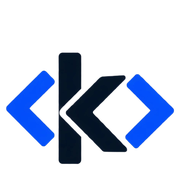
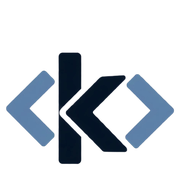
Steel blue in place of the bright blue
The logo, the tab and home-screen icons, the share picture and every accent
on the site move from the bright blue to a calm steel blue; the greys and
glows follow it, and the six games' own colours are toned down to match.

Changed region(s): [[0.0278, 0.3889, 0.3056, 0.8333], [0.6944, 0.3889, 0.9722, 0.8333]]

diff --git a/styles.css b/styles.css
@@ -4,16 +4,16 @@
   --navy: #011122;
   --navy-2: #071d38;
   --navy-3: #0c2a50;
-  --blue: #004efc;
-  --blue-2: #2f6dff;
-  --blue-3: #8db0ff;
-  --blue-soft: #e8efff;
+  --blue: #46678c;
+  --blue-2: #5c80a8;
+  --blue-3: #a3bad6;
+  --blue-soft: #eaf0f6;
   --page: #ffffff;
-  --page-2: #f4f7fd;
-  --line: #e2e8f3;
+  --page-2: #f4f6f9;
+  --line: #e2e7ee;
   --ink: #011122;
-  --ink-soft: #4a5872;
-  --on-dark: #c9d6ee;
+  --ink-soft: #4b5869;
+  --on-dark: #c9d3e0;
   --radius: 28px;
   --shadow: 0 18px 48px rgba(1, 17, 34, .12);
   --ease: cubic-bezier(.2, .7, .2, 1);
@@ -117,15 +117,15 @@ html[data-lang="tr"] .top.over .lang [data-set="tr"], html[data-lang="en"] .top.
 .badge span span { color: var(--on-dark); }
 .hero h1 { font-size: clamp(42px, 7vw, 92px); line-height: 1.02; letter-spacing: -2.5px; margin: 26px 0 22px; max-width: 980px; }
 .hero h1 em {
-  font-style: normal; color: #7ea6ff;
-  background: linear-gradient(90deg, #5b8cff 0%, #a8c6ff 100%); -webkit-background-clip: text; background-clip: text; -webkit-text-fill-color: transparent;
+  font-style: normal; color: #a3bad6;
+  background: linear-gradient(90deg, #8eaacb 0%, #cddbea 100%); -webkit-background-clip: text; background-clip: text; -webkit-text-fill-color: transparent;
 }
 .hero .lead { font-size: clamp(17.5px, 1.7vw, 21px); max-width: 580px; margin: 0 0 34px; color: var(--on-dark); }
 .cta { display: flex; flex-wrap: wrap; gap: 14px; align-items: center; }
 .button {
   display: inline-flex; align-items: center; gap: 10px; text-decoration: none; font-weight: 700; font-size: 16.5px;
   padding: 15px 26px; border-radius: 14px; background: var(--blue); color: #fff;
-  box-shadow: 0 12px 30px rgba(0, 78, 252, .4); transition: transform .15s, background .15s;
+  box-shadow: 0 12px 30px rgba(70, 103, 140, .35); transition: transform .15s, background .15s;
 }
 .button:hover { transform: translateY(-2px); background: var(--blue-2); }
 .button .arrow { transition: transform .2s; }
@@ -153,7 +153,7 @@ html[data-lang="tr"] .top.over .lang [data-set="tr"], html[data-lang="en"] .top.
 .marquee {
   position: relative; z-index: 3; margin: -30px -40px 0; padding: 20px 0; overflow: hidden;
   background: var(--blue); color: #fff; transform: rotate(-2deg);
-  box-shadow: 0 20px 44px rgba(0, 78, 252, .3);
+  box-shadow: 0 20px 44px rgba(70, 103, 140, .3);
 }
 .track { display: flex; width: max-content; animation: band 30s linear infinite; }
 .track span { display: inline-flex; align-items: center; font: 800 clamp(22px, 2.8vw, 34px)/1 "Poppins", sans-serif; letter-spacing: .5px; white-space: nowrap; }
@@ -167,7 +167,7 @@ html[data-lang="tr"] .top.over .lang [data-set="tr"], html[data-lang="en"] .top.
 .show { display: grid; grid-template-columns: 1.3fr 1fr; gap: 72px; margin-top: 56px; }
 .stage {
   position: sticky; top: 110px; height: min(64vh, 580px); border-radius: var(--radius); overflow: hidden; background: var(--navy);
-  --accent: #2fbf71;
+  --accent: #6f9e7f;
   box-shadow: 0 40px 90px -34px var(--accent); transition: box-shadow .6s;
 }
 .stage img { position: absolute; inset: 0; width: 100%; height: 100%; object-fit: cover; opacity: 0; transform: scale(1.08); transition: opacity .6s ease, transform 1.4s var(--ease); }
@@ -190,7 +190,7 @@ html[data-lang="tr"] .top.over .lang [data-set="tr"], html[data-lang="en"] .top.
 .animals { position: relative; background: var(--page-2); padding: 120px 0 110px; overflow: hidden; }
 .animals::before {
   content: ""; position: absolute; inset: 0; pointer-events: none;
-  background: radial-gradient(circle at 12% 18%, rgba(0, 78, 252, .1), transparent 34%), radial-gradient(circle at 90% 80%, rgba(0, 78, 252, .1), transparent 36%);
+  background: radial-gradient(circle at 12% 18%, rgba(92, 128, 168, .12), transparent 34%), radial-gradient(circle at 90% 80%, rgba(92, 128, 168, .12), transparent 36%);
 }
 .animals .wrap { position: relative; }
 .animals-head { text-align: center; max-width: 680px; margin: 0 auto; }
@@ -224,7 +224,7 @@ html[data-lang="tr"] .top.over .lang [data-set="tr"], html[data-lang="en"] .top.
   background-image: radial-gradient(rgba(255, 255, 255, .08) 1px, transparent 1.2px); background-size: 26px 26px;
   -webkit-mask-image: linear-gradient(180deg, #000, transparent 85%); mask-image: linear-gradient(180deg, #000, transparent 85%);
 }
-.how::after { content: ""; position: absolute; inset: 0; pointer-events: none; background: radial-gradient(circle at 85% 0%, rgba(0, 78, 252, .45), transparent 50%); }
+.how::after { content: ""; position: absolute; inset: 0; pointer-events: none; background: radial-gradient(circle at 85% 0%, rgba(92, 128, 168, .3), transparent 50%); }
 .how .wrap { position: relative; z-index: 1; }
 .how .kicker { color: var(--blue-3); }
 .how-head h2 { font-size: clamp(38px, 5.4vw, 68px); letter-spacing: -2px; margin-bottom: 14px; }
@@ -233,7 +233,7 @@ html[data-lang="tr"] .top.over .lang [data-set="tr"], html[data-lang="en"] .top.
 .js .steps[data-reveal] { opacity: 1; transform: none; }
 .steps::before {
   content: ""; position: absolute; left: 36px; right: 0; top: 35px; height: 2px;
-  background: linear-gradient(90deg, var(--blue-2), rgba(47, 109, 255, .12));
+  background: linear-gradient(90deg, var(--blue-2), rgba(92, 128, 168, .14));
   transform-origin: left; transform: scaleX(0); transition: transform 1.6s var(--ease) .2s;
 }
 .steps.in::before, html:not(.js) .steps::before { transform: none; }
@@ -245,7 +245,7 @@ html[data-lang="tr"] .top.over .lang [data-set="tr"], html[data-lang="en"] .top.
 .js .steps.in li:nth-child(4) { transition-delay: .54s; }
 .dot {
   position: relative; z-index: 1; display: grid; place-items: center; width: 72px; height: 72px; border-radius: 22px;
-  background: var(--blue); box-shadow: 0 0 0 8px var(--navy), 0 16px 36px rgba(0, 78, 252, .5);
+  background: var(--blue); box-shadow: 0 0 0 8px var(--navy), 0 16px 36px rgba(92, 128, 168, .4);
 }
 .dot::before { content: ""; width: 36px; height: 36px; background: #fff; -webkit-mask: var(--icon) center / contain no-repeat; mask: var(--icon) center / contain no-repeat; }
 .step-num { display: block; margin: 28px 0 6px; font: 700 14px "Poppins", sans-serif; color: var(--blue-3); letter-spacing: 1.5px; }
@@ -274,7 +274,7 @@ html[data-lang="tr"] .top.over .lang [data-set="tr"], html[data-lang="en"] .top.
 .contact { padding: 0 0 120px; }
 .contact-card {
   position: relative; overflow: hidden; border-radius: 34px; padding: 80px 68px; color: #fff;
-  background: radial-gradient(circle at 82% 18%, rgba(47, 109, 255, .65), transparent 48%), linear-gradient(135deg, var(--navy) 0%, var(--navy-3) 62%, #003ad1 120%);
+  background: radial-gradient(circle at 82% 18%, rgba(92, 128, 168, .45), transparent 48%), linear-gradient(135deg, var(--navy) 0%, var(--navy-3) 62%, #33557a 120%);
 }
 .contact-text { position: relative; z-index: 1; max-width: 600px; }
 .contact .kicker { color: var(--blue-3); }
@@ -290,7 +290,7 @@ html[data-lang="tr"] .top.over .lang [data-set="tr"], html[data-lang="en"] .top.
 @keyframes peek { from { transform: translateY(75%) rotate(-6deg); } to { transform: rotate(-6deg); } }
 
 /* ── Footer ── */
-footer { background: var(--navy); color: #8d9cb8; padding: 36px 0; font-size: 14.5px; }
+footer { background: var(--navy); color: #8f9cae; padding: 36px 0; font-size: 14.5px; }
 footer .wrap { display: flex; flex-wrap: wrap; gap: 14px 28px; align-items: center; }
 footer .foot-logo { height: 34px; width: auto; }
 footer a { color: #fff; text-decoration: none; font-weight: 600; }
@@ -333,6 +333,7 @@ footer .spacer { margin-left: auto; }
   .steps::before { display: none; }
   .privacy .wrap { grid-template-columns: 1fr; gap: 44px; }
   .checks { transform: none; }
+  .contact-text { max-width: 60%; }
 }
 @media (max-width: 680px) {
   body { font-size: 16.5px; }
@@ -362,7 +363,7 @@ footer .spacer { margin-left: auto; }
   .numbers div { padding-top: 24px; }
   /* The steps run down a line on the left. */
   .steps { grid-template-columns: 1fr; row-gap: 40px; margin-top: 56px; }
-  .steps::before { display: block; left: 31px; top: 30px; bottom: 30px; right: auto; width: 2px; height: auto; transform-origin: top; transform: scaleY(0); background: linear-gradient(180deg, var(--blue-2), rgba(47, 109, 255, .12)); }
+  .steps::before { display: block; left: 31px; top: 30px; bottom: 30px; right: auto; width: 2px; height: auto; transform-origin: top; transform: scaleY(0); background: linear-gradient(180deg, var(--blue-2), rgba(92, 128, 168, .14)); }
   .steps.in::before { transform: none; }
   .steps li { padding-left: 88px; }
   .dot { position: absolute; left: 0; top: 0; width: 62px; height: 62px; border-radius: 19px; }
@@ -372,6 +373,7 @@ footer .spacer { margin-left: auto; }
   .checks li { font-size: 16px; padding: 13px 14px; }
   .contact { padding-bottom: 80px; }
   .contact-card { padding: 50px 24px 230px; border-radius: 26px; }
+  .contact-text { max-width: none; }
   .contact h2 { letter-spacing: -2px; }
   .peek { width: 210px; right: 50%; margin-right: -105px; bottom: -20px; }
   footer .spacer { margin-left: 0; }
@@ -394,14 +396,14 @@ footer .spacer { margin-left: auto; }
 }
 .co-hero::after {
   content: ""; position: absolute; inset: 0; pointer-events: none;
-  background: radial-gradient(circle at 76% 46%, rgba(0, 78, 252, .55), transparent 42%), radial-gradient(circle at 6% 100%, rgba(0, 78, 252, .22), transparent 40%);
+  background: radial-gradient(circle at 76% 46%, rgba(92, 128, 168, .38), transparent 42%), radial-gradient(circle at 6% 100%, rgba(92, 128, 168, .16), transparent 40%);
 }
 .co-hero-grid { position: relative; z-index: 1; width: 100%; display: grid; grid-template-columns: 1.05fr 1fr; gap: 56px; align-items: center; }
 .co-hero .kicker { color: var(--blue-3); }
 .co-hero h1 { font-size: clamp(38px, 4.7vw, 68px); line-height: 1.03; letter-spacing: -2.4px; margin-bottom: 24px; }
 .co-hero h1 em {
-  font-style: normal; color: #7ea6ff;
-  background: linear-gradient(90deg, #5b8cff 0%, #a8c6ff 100%); -webkit-background-clip: text; background-clip: text; -webkit-text-fill-color: transparent;
+  font-style: normal; color: #a3bad6;
+  background: linear-gradient(90deg, #8eaacb 0%, #cddbea 100%); -webkit-background-clip: text; background-clip: text; -webkit-text-fill-color: transparent;
 }
 .co-hero .lead { font-size: clamp(17px, 1.5vw, 19.5px); color: var(--on-dark); max-width: 540px; margin: 0 0 34px; }
 .co-hero-text > * { animation: rise 1s var(--ease) both; }
@@ -413,7 +415,7 @@ footer .spacer { margin-left: auto; }
 .device {
   position: relative; z-index: 1; margin: 0 12px; padding: 12px; border-radius: 38px; transform: rotate(-4deg);
   background: linear-gradient(145deg, #22324e, #0a1424);
-  box-shadow: inset 0 0 0 1px rgba(255, 255, 255, .1), 0 50px 100px -30px rgba(0, 0, 0, .75), 0 30px 90px -40px rgba(0, 78, 252, .9);
+  box-shadow: inset 0 0 0 1px rgba(255, 255, 255, .1), 0 50px 100px -30px rgba(0, 0, 0, .75), 0 30px 90px -40px rgba(92, 128, 168, .7);
 }
 .device::after { content: ""; position: absolute; left: 3px; top: 50%; width: 6px; height: 6px; margin-top: -3px; border-radius: 50%; background: #03070f; }
 .screen { position: relative; aspect-ratio: 20 / 9; border-radius: 27px; overflow: hidden; background: #000; }
@@ -484,7 +486,7 @@ footer .spacer { margin-left: auto; }
 .mosaic:hover img:nth-child(even) { transform: translateY(18px); }
 .lab {
   margin-top: 24px; display: flex; align-items: center; justify-content: space-between; gap: 24px;
-  padding: 32px 40px; border: 2px dashed #c3d0e8; border-radius: var(--radius);
+  padding: 32px 40px; border: 2px dashed #c6d1de; border-radius: var(--radius);
 }
 .lab h3 { font-size: 22px; margin-bottom: 4px; }
 .lab p { margin: 0; color: var(--ink-soft); }

diff --git a/motionarea/index.html b/motionarea/index.html
@@ -11,12 +11,12 @@
 <meta property="og:image" content="https://kutcodelabs.com/img/og-image.jpg">
 <meta property="og:url" content="https://kutcodelabs.com/motionarea/">
 <meta name="theme-color" content="#011122">
-<link rel="icon" type="image/png" href="/favicon.png">
-<link rel="apple-touch-icon" href="/apple-touch-icon.png">
+<link rel="icon" type="image/png" href="/favicon.png?v=2">
+<link rel="apple-touch-icon" href="/apple-touch-icon.png?v=2">
 <link rel="preconnect" href="https://fonts.googleapis.com">
 <link rel="preconnect" href="https://fonts.gstatic.com" crossorigin>
 <link href="https://fonts.googleapis.com/css2?family=Inter:wght@400;500;600;700&family=Poppins:wght@600;700;800&display=swap" rel="stylesheet">
-<link rel="stylesheet" href="/styles.css?v=7">
+<link rel="stylesheet" href="/styles.css?v=8">
 <script src="/lang.js?v=3" defer></script>
 <script src="/site.js?v=1" defer></script>
 </head>
@@ -25,8 +25,8 @@
 <header class="top over">
   <div class="wrap">
     <a class="brand" href="/" aria-label="KutCode Labs">
-      <img class="logo-dark" src="/img/logo.png" alt="kutcodelabs" width="394" height="120">
-      <img class="logo-light" src="/img/logo-white.png" alt="" width="394" height="120">
+      <img class="logo-dark" src="/img/logo.png?v=2" alt="kutcodelabs" width="394" height="120">
+      <img class="logo-light" src="/img/logo-white.png?v=2" alt="" width="394" height="120">
     </a>
     <nav class="nav">
       <a href="#games"><span lang="tr">Oyunlar</span><span lang="en">Games</span></a>
@@ -107,7 +107,7 @@
           <span class="stage-num">01</span>
         </div>
         <div class="list">
-          <article class="g on" style="--accent: #2fbf71">
+          <article class="g on" style="--accent: #6f9e7f">
             <img class="g-img" src="/img/hero-jungle-run.webp" alt="Jungle Run" width="1920" height="864" loading="lazy">
             <div class="g-text">
               <div class="g-top"><span class="num">01</span><span class="tag"><span lang="tr">Yarış</span><span lang="en">Race</span></span></div>
@@ -116,7 +116,7 @@
               <ul class="moves"><li lang="tr">Koş</li><li lang="tr">Eğil</li><li lang="tr">Zıpla</li><li lang="tr">Çömel</li><li lang="en">Run</li><li lang="en">Lean</li><li lang="en">Jump</li><li lang="en">Duck</li></ul>
             </div>
           </article>
-          <article class="g" style="--accent: #ffb800">
+          <article class="g" style="--accent: #c9a052">
             <img class="g-img" src="/img/hero-gold-rain.webp" alt="Gold Rain" width="1920" height="864" loading="lazy">
             <div class="g-text">
               <div class="g-top"><span class="num">02</span><span class="tag"><span lang="tr">Parti</span><span lang="en">Party</span></span></div>
@@ -125,7 +125,7 @@
               <ul class="moves"><li lang="tr">Eğil</li><li lang="tr">Kollarını aç</li><li lang="en">Lean</li><li lang="en">Reach out</li></ul>
             </div>
           </article>
-          <article class="g" style="--accent: #ff4d5e">
+          <article class="g" style="--accent: #c46d66">
             <img class="g-img" src="/img/hero-red-light.webp" alt="Red Light, Green Light" width="1920" height="864" loading="lazy">
             <div class="g-text">
               <div class="g-top"><span class="num">03</span><span class="tag"><span lang="tr">Yarış</span><span lang="en">Race</span></span></div>
@@ -134,7 +134,7 @@
               <ul class="moves"><li lang="tr">Koş</li><li lang="tr">Donup kal</li><li lang="en">Run</li><li lang="en">Freeze</li></ul>
             </div>
           </article>
-          <article class="g" style="--accent: #9b6bff">
+          <article class="g" style="--accent: #8a80b8">
             <img class="g-img" src="/img/hero-wall-rush.webp" alt="Wall Rush" width="1920" height="864" loading="lazy">
             <div class="g-text">
               <div class="g-top"><span class="num">04</span><span class="tag"><span lang="tr">Parti</span><span lang="en">Party</span></span></div>
@@ -143,7 +143,7 @@
               <ul class="moves"><li lang="tr">Poz ver</li><li lang="tr">Zıpla</li><li lang="en">Strike a pose</li><li lang="en">Jump</li></ul>
             </div>
           </article>
-          <article class="g" style="--accent: #38b6ff">
+          <article class="g" style="--accent: #6a9cbf">
             <img class="g-img" src="/img/hero-snowball-towers.webp" alt="Snowball Towers" width="1920" height="864" loading="lazy">
             <div class="g-text">
               <div class="g-top"><span class="num">05</span><span class="tag"><span lang="tr">Takım savaşı</span><span lang="en">Team battle</span></span></div>
@@ -152,7 +152,7 @@
               <ul class="moves"><li lang="tr">Eğil</li><li lang="tr">Çömel</li><li lang="tr">Elini kaldır</li><li lang="en">Lean</li><li lang="en">Crouch</li><li lang="en">Raise a hand</li></ul>
             </div>
           </article>
-          <article class="g" style="--accent: #ff5fc8">
+          <article class="g" style="--accent: #b67ea2">
             <img class="g-img" src="/img/hero-floor-piano.webp" alt="Floor Piano" width="1920" height="864" loading="lazy">
             <div class="g-text">
               <div class="g-top"><span class="num">06</span><span class="tag"><span lang="tr">Müzik</span><span lang="en">Music</span></span></div>
@@ -261,7 +261,7 @@
 
 <footer>
   <div class="wrap">
-    <img class="foot-logo" src="/img/logo-white.png" alt="kutcodelabs" width="394" height="120">
+    <img class="foot-logo" src="/img/logo-white.png?v=2" alt="kutcodelabs" width="394" height="120">
     <span>© <span id="year">2026</span> KutCode Labs</span>
     <a href="/">KutCode Labs</a>
     <a href="/motionarea/privacy/"><span lang="tr">MotionArea gizlilik politikası</span><span lang="en">MotionArea privacy policy</span></a>

diff --git a/index.html b/index.html
@@ -8,17 +8,17 @@
 <meta property="og:title" content="KutCode Labs">
 <meta property="og:site_name" content="KutCode Labs">
 <meta property="og:description" content="An independent software studio making mobile games and apps. Our first product: MotionArea.">
-<meta property="og:image" content="https://kutcodelabs.com/img/og-kutcode.jpg">
+<meta property="og:image" content="https://kutcodelabs.com/img/og-kutcode.jpg?v=2">
 <meta property="og:image:width" content="1200">
 <meta property="og:image:height" content="630">
 <meta property="og:url" content="https://kutcodelabs.com/">
 <meta name="theme-color" content="#011122">
-<link rel="icon" type="image/png" href="/favicon.png">
-<link rel="apple-touch-icon" href="/apple-touch-icon.png">
+<link rel="icon" type="image/png" href="/favicon.png?v=2">
+<link rel="apple-touch-icon" href="/apple-touch-icon.png?v=2">
 <link rel="preconnect" href="https://fonts.googleapis.com">
 <link rel="preconnect" href="https://fonts.gstatic.com" crossorigin>
 <link href="https://fonts.googleapis.com/css2?family=Inter:wght@400;500;600;700&family=Poppins:wght@600;700;800&display=swap" rel="stylesheet">
-<link rel="stylesheet" href="/styles.css?v=7">
+<link rel="stylesheet" href="/styles.css?v=8">
 <script src="/lang.js?v=3" defer></script>
 <script src="/site.js?v=1" defer></script>
 </head>
@@ -27,8 +27,8 @@
 <header class="top over">
   <div class="wrap">
     <a class="brand" href="/" aria-label="KutCode Labs">
-      <img class="logo-dark" src="/img/logo.png" alt="kutcodelabs" width="394" height="120">
-      <img class="logo-light" src="/img/logo-white.png" alt="" width="394" height="120">
+      <img class="logo-dark" src="/img/logo.png?v=2" alt="kutcodelabs" width="394" height="120">
+      <img class="logo-light" src="/img/logo-white.png?v=2" alt="" width="394" height="120">
     </a>
     <nav class="nav">
       <a href="#what"><span lang="tr">Ne yapıyoruz</span><span lang="en">What we do</span></a>
@@ -222,7 +222,7 @@
 
 <footer>
   <div class="wrap">
-    <img class="foot-logo" src="/img/logo-white.png" alt="kutcodelabs" width="394" height="120">
+    <img class="foot-logo" src="/img/logo-white.png?v=2" alt="kutcodelabs" width="394" height="120">
     <span>© <span id="year">2026</span> KutCode Labs</span>
     <a href="/motionarea/">MotionArea</a>
     <a href="/motionarea/privacy/"><span lang="tr">MotionArea gizlilik politikası</span><span lang="en">MotionArea privacy policy</span></a>

diff --git a/motionarea/privacy/index.html b/motionarea/privacy/index.html
@@ -6,19 +6,19 @@
 <title>MotionArea — Gizlilik Politikası · KutCode Labs</title>
 <meta name="description" content="MotionArea gizlilik politikası: kişisel veri toplanmaz; kamera görüntüsü yalnızca telefonda işlenir. MotionArea privacy policy.">
 <meta name="theme-color" content="#011122">
-<link rel="icon" type="image/png" href="/favicon.png">
-<link rel="apple-touch-icon" href="/apple-touch-icon.png">
+<link rel="icon" type="image/png" href="/favicon.png?v=2">
+<link rel="apple-touch-icon" href="/apple-touch-icon.png?v=2">
 <link rel="preconnect" href="https://fonts.googleapis.com">
 <link rel="preconnect" href="https://fonts.gstatic.com" crossorigin>
 <link href="https://fonts.googleapis.com/css2?family=Inter:wght@400;600;700&family=Poppins:wght@700;800&display=swap" rel="stylesheet">
-<link rel="stylesheet" href="/styles.css?v=7">
+<link rel="stylesheet" href="/styles.css?v=8">
 <script src="/lang.js?v=3" defer></script>
 </head>
 <body>
 
 <header class="top">
   <div class="wrap">
-    <a class="brand" href="/" aria-label="KutCode Labs"><img src="/img/logo.png" alt="kutcodelabs" width="394" height="120"></a>
+    <a class="brand" href="/" aria-label="KutCode Labs"><img src="/img/logo.png?v=2" alt="kutcodelabs" width="394" height="120"></a>
     <nav class="nav">
       <a href="/motionarea/">MotionArea</a>
       <a href="/motionarea/#games"><span lang="tr">Oyunlar</span><span lang="en">Games</span></a>
@@ -86,7 +86,7 @@
 
 <footer>
   <div class="wrap">
-    <img class="foot-logo" src="/img/logo-white.png" alt="kutcodelabs" width="394" height="120">
+    <img class="foot-logo" src="/img/logo-white.png?v=2" alt="kutcodelabs" width="394" height="120">
     <span>© <span id="year">2026</span> KutCode Labs</span>
     <a href="/">KutCode Labs</a>
     <a href="/motionarea/">MotionArea</a>

diff --git a/404.html b/404.html
@@ -4,15 +4,15 @@
 <meta charset="utf-8">
 <meta name="viewport" content="width=device-width, initial-scale=1">
 <title>Sayfa bulunamadı · KutCode Labs</title>
-<link rel="icon" type="image/png" href="/favicon.png">
-<link rel="apple-touch-icon" href="/apple-touch-icon.png">
+<link rel="icon" type="image/png" href="/favicon.png?v=2">
+<link rel="apple-touch-icon" href="/apple-touch-icon.png?v=2">
 <link href="https://fonts.googleapis.com/css2?family=Inter:wght@400;600;700&family=Poppins:wght@700;800&display=swap" rel="stylesheet">
-<link rel="stylesheet" href="/styles.css?v=7">
+<link rel="stylesheet" href="/styles.css?v=8">
 <script src="/lang.js?v=3" defer></script>
 </head>
 <body>
 <main class="doc">
-  <a class="brand" href="/" aria-label="KutCode Labs"><img src="/img/logo.png" alt="kutcodelabs" width="394" height="120"></a>
+  <a class="brand" href="/" aria-label="KutCode Labs"><img src="/img/logo.png?v=2" alt="kutcodelabs" width="394" height="120"></a>
   <h1><span lang="tr">Bu sayfa yok</span><span lang="en">This page doesn't exist</span></h1>
   <p><a href="/"><span lang="tr">Ana sayfaya dön</span><span lang="en">Back to the home page</span></a></p>
 </main>
